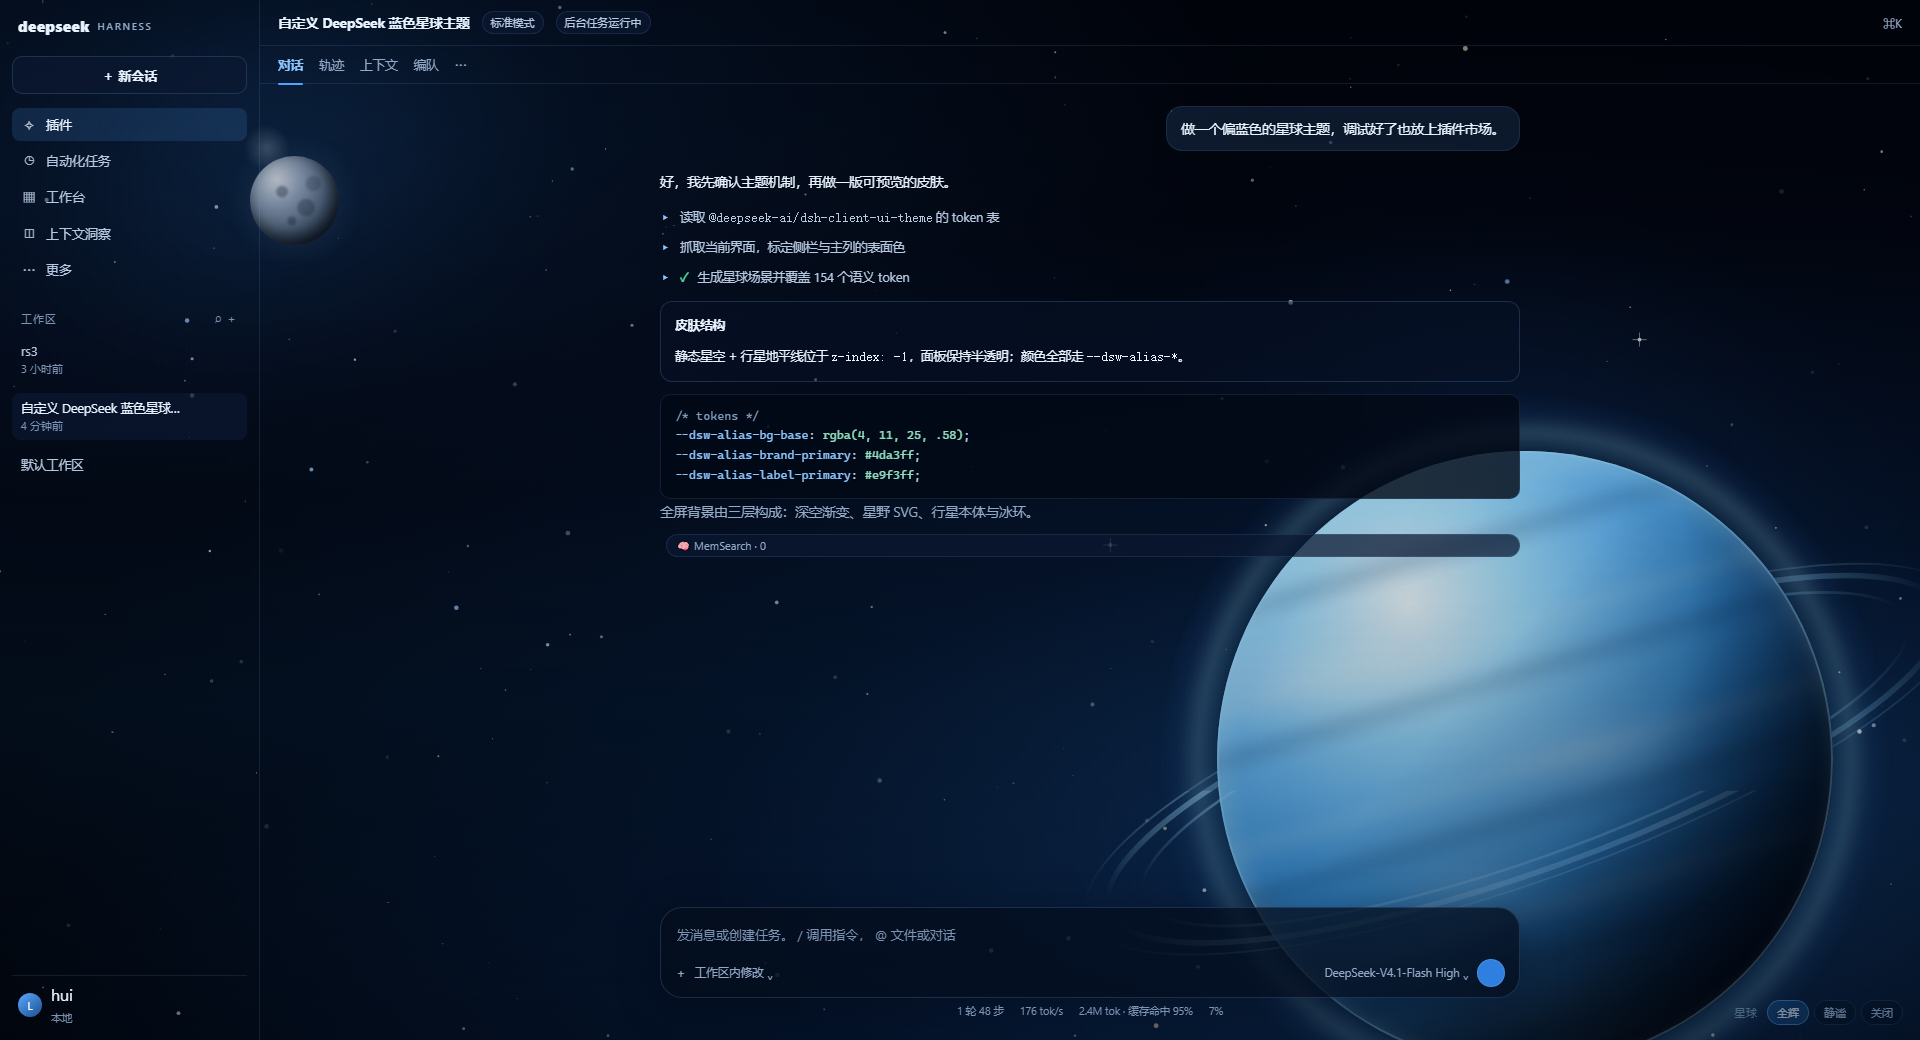
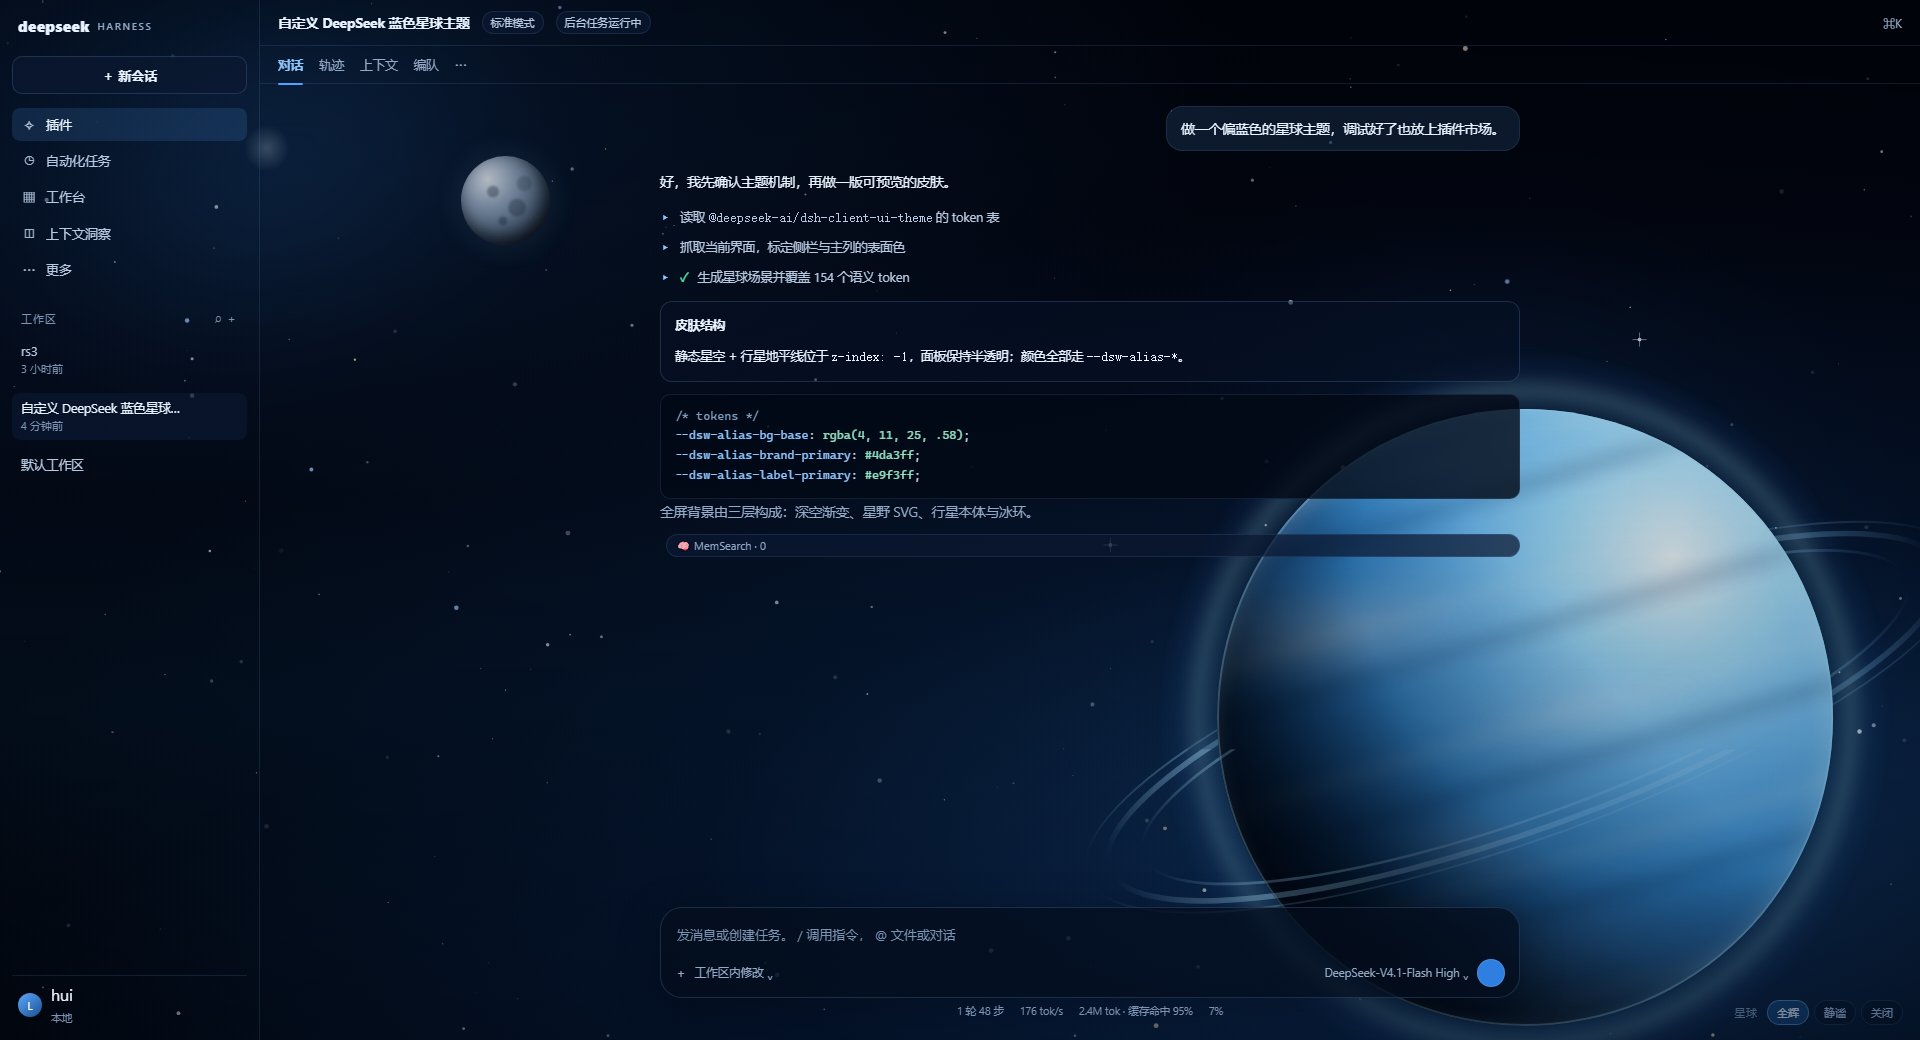
v0.2.3: light the planet from the upper right so the lit face clears the chat column

Changed region(s): [[0.5938, 0.3385, 1.0, 1.0], [0.2188, 0.1538, 0.2812, 0.2462], [0.125, 0.1538, 0.1875, 0.2462]]

diff --git a/client.js b/client.js
@@ -289,7 +289,7 @@ html[data-bp-mode="off"] #${STAGE_ID} { display: none; }
 .bp-planet {
   position: absolute;
   right: 0vmin;
-  bottom: -11vmin;
+  bottom: -7vmin;
   width: 76vmin;
   height: 76vmin;
   filter: saturate(1.05);
@@ -324,8 +324,9 @@ html[data-bp-mode="off"] #${STAGE_ID} { display: none; }
   z-index: 1;
   border-radius: 50%;
   overflow: hidden;
-  /* Sphere shading: tight hot highlight, fast falloff, dark limb. */
-  background: radial-gradient(circle at 31% 25%,
+  /* Sphere shading: light from the upper right so the lit face lands in the
+     open right margin of the app (the chat column covers the center-left). */
+  background: radial-gradient(circle at 74% 24%,
     #f2fcff 0%,
     #d3f1ff 7%,
     #a8e2ff 17%,
@@ -338,7 +339,7 @@ html[data-bp-mode="off"] #${STAGE_ID} { display: none; }
     #010714 100%);
   box-shadow:
     inset 0 0 0 1px rgba(170, 226, 255, 0.22),
-    inset 14px 18px 70px rgba(185, 235, 255, 0.22);
+    inset -14px 18px 70px rgba(185, 235, 255, 0.22);
 }
 
 /* The cloud deck churns: a slow shear across the visible face. The wrapper
@@ -383,7 +384,7 @@ html[data-bp-mode="off"] #${STAGE_ID} { display: none; }
   position: absolute;
   inset: 0;
   background:
-    radial-gradient(118% 118% at 26% 24%,
+    radial-gradient(118% 118% at 74% 24%,
       rgba(2, 6, 16, 0) 0%,
       rgba(2, 6, 16, 0) 43%,
       rgba(2, 6, 16, 0.20) 54%,
@@ -391,7 +392,7 @@ html[data-bp-mode="off"] #${STAGE_ID} { display: none; }
       rgba(1, 4, 12, 0.80) 76%,
       rgba(0, 2, 8, 0.93) 87%,
       rgba(0, 2, 8, 0.97) 100%),
-    linear-gradient(130deg,
+    linear-gradient(230deg,
       transparent 40%,
       rgba(0, 3, 10, 0.18) 58%,
       rgba(0, 2, 8, 0.50) 74%,
@@ -402,7 +403,7 @@ html[data-bp-mode="off"] #${STAGE_ID} { display: none; }
   inset: 0;
   border-radius: 50%;
   box-shadow:
-    inset 7px 9px 24px rgba(196, 238, 255, 0.30),
+    inset -7px 9px 24px rgba(196, 238, 255, 0.30),
     inset 0 0 0 2px rgba(160, 220, 255, 0.32);
 }
 
@@ -429,7 +430,7 @@ html[data-bp-mode="off"] #${STAGE_ID} { display: none; }
 
 .bp-moon {
   position: absolute;
-  left: 13%;
+  left: 24%;
   top: 15%;
   width: 8.6vmin;
   height: 8.6vmin;
